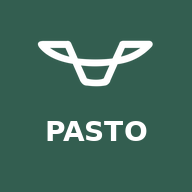
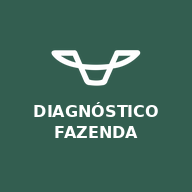
Renomeia app de diagnóstico para Diagnóstico Fazenda
Evita confusão com o app ArPec Pasto (pastagens): novo nome, ícone
e versão do cache.

Claude-Session: https://claude.ai/code/session_014kWhQ3aY45nmE32hr55Pvo

Changed region(s): [[0.1562, 0.5312, 0.8438, 0.75], [0.1875, 0.1875, 0.8125, 0.4688]]

diff --git a/diagnostico/index.html b/diagnostico/index.html
@@ -7,8 +7,8 @@
 <link rel="manifest" href="manifest.webmanifest">
 <link rel="icon" href="icon-192.png">
 <link rel="apple-touch-icon" href="icon-192.png">
-<meta name="apple-mobile-web-app-title" content="ArPec PASTO">
-<title>Diagnóstico PASTO ArPec</title>
+<meta name="apple-mobile-web-app-title" content="Diag. Fazenda">
+<title>Diagnóstico Fazenda ArPec</title>
 <meta name="claude:viewport-fit-sides" content="cover">
 <link rel="preconnect" href="https://fonts.googleapis.com">
 <link rel="stylesheet" href="https://fonts.googleapis.com/css2?family=Source+Sans+3:wght@400;600;700&family=Source+Serif+4:opsz,wght@8..60,500;8..60,600&display=swap">
@@ -195,7 +195,7 @@ table.rt .num{text-align:center;font-variant-numeric:tabular-nums;white-space:no
 
 <header class="top">
   <div class="top-in">
-    <div class="brand"><span class="brand-mark"><img id="topLogo" alt="ArPec Consultoria"></span><b>Diagnóstico PASTO</b><span id="curName">ArPec Consultoria</span></div>
+    <div class="brand"><span class="brand-mark"><img id="topLogo" alt="ArPec Consultoria"></span><b>Diagnóstico Fazenda</b><span id="curName">ArPec Consultoria</span></div>
     <nav class="nav" aria-label="Seções">
       <button class="btn" id="navList" type="button">Diagnósticos</button>
       <button class="btn" id="navEdit" type="button">Avaliação</button>

diff --git a/diagnostico/sw.js b/diagnostico/sw.js
@@ -1,4 +1,4 @@
-const CACHE = 'arpec-diag-v1';
+const CACHE = 'arpec-diag-v2';
 const FILES = ['./', './index.html', './manifest.webmanifest', './icon-192.png', './icon-512.png'];
 self.addEventListener('install', e => { e.waitUntil(caches.open(CACHE).then(c => c.addAll(FILES))); self.skipWaiting(); });
 self.addEventListener('activate', e => {

diff --git a/README.md b/README.md
@@ -4,7 +4,7 @@ App off-line para avaliação de pastagens em campo (Escala Técnica ArPec).
 
 Abrir no celular: https://aniltonrlopes-stack.github.io/arpec-pasto/ → menu ⋮ → **Instalar app**.
 
-## ArPec – Diagnóstico PASTO
+## ArPec – Diagnóstico Fazenda
 
 Diagnóstico inicial de gestão de pessoas (Método PASTO), com relatório em PDF para o cliente.
 
